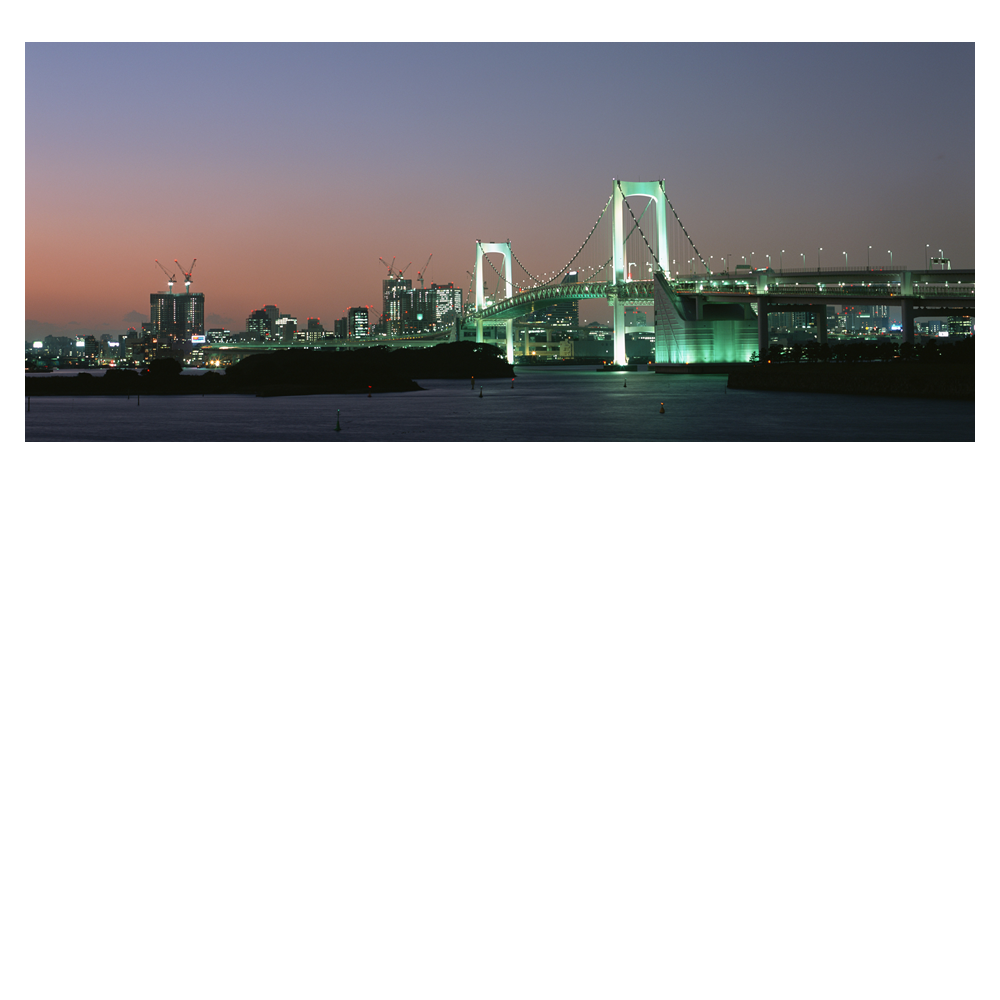
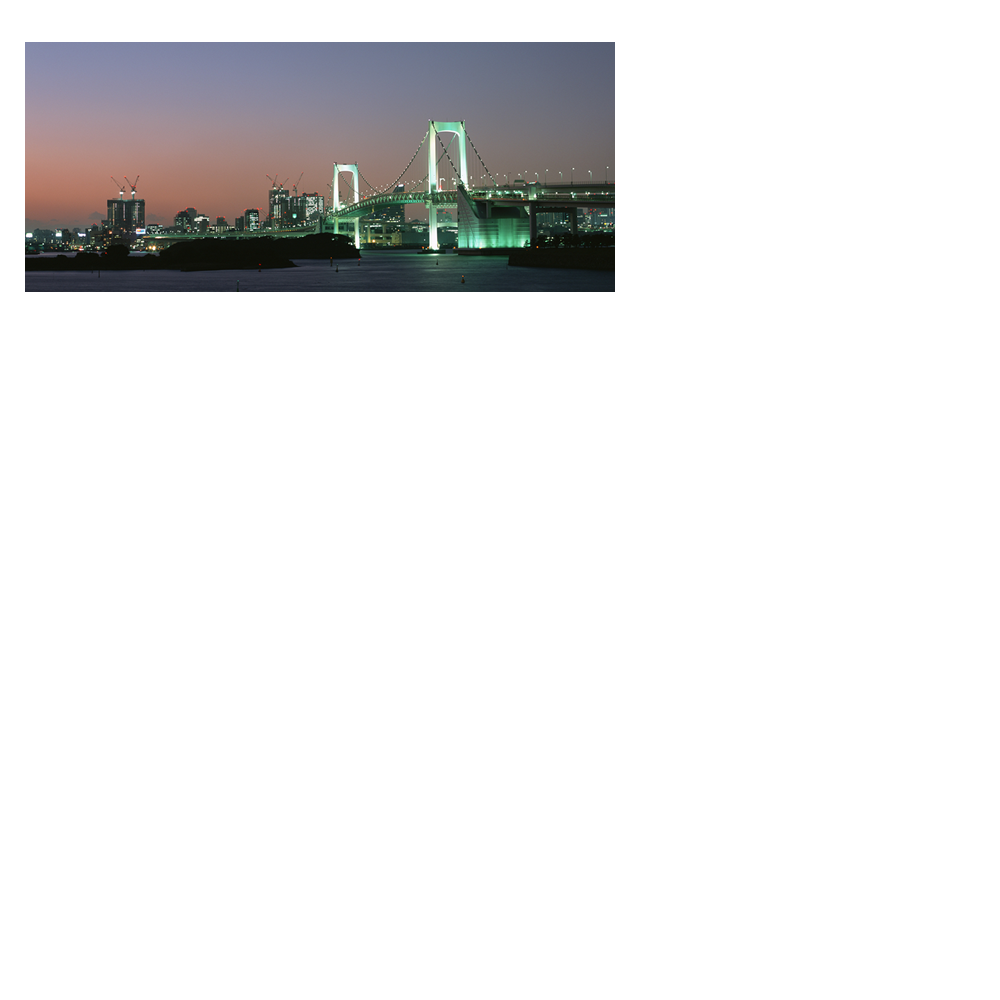
1. add debug library. 2. effect animation fixed. Signed-off-by: holy <holy.shared.design@gmail.com>

diff --git a/Source/Gradually.js b/Source/Gradually.js
@@ -24,11 +24,13 @@ var Gradually = new Class({
 	Implements: [Events, Options],
 
 	options: {
-		'panelHeight': 80,
-		'panelWidth': 95,
-		'periodical': 10000,
-		'duration': 100,
-		'zIndex': 9000
+		'panelHeight': 50,
+		'panelWidth': 59,
+		'periodical': 5000,
+		'duration': 30,
+		'zIndex': 9000,
+		'height': 250,
+		'width': 590
 	},
 
 	initialize: function (container, source, options) {
@@ -38,15 +40,15 @@ var Gradually = new Class({
 
 		
 		this.parseElements(source);
-				this.index = 0;
+		this.index = 0;
 
 		
-		this.container.setStyle("height", 400);
-		this.container.setStyle("width", 950);
+		this.container.setStyle("height", this.options.height);
+		this.container.setStyle("width", this.options.width);
 		
-		this.images = this.source.getElements("li img");
-		this.zIndex	= this.images.length;
-		this.source.setStyle("diplay","none");
+//		this.images = this.source.getElements("li img");
+//		this.zIndex	= this.images.length;
+//		this.source.setStyle("diplay","none");
 
 		this.build();
 		this.onTime.delay(this.options.periodical, this);
@@ -136,50 +138,16 @@ var Gradually = new Class({
 		this.progress = 0;
 		this.total = 0;
 	},
-
-	random: function() {
-		this.reset();
-		var panels = this.getCurrentPanels();
-		var total = panels.length;
-//		var duration = 0;
-
-
-
-
-		this.total = panels.length;
-		this.progress = 0;
-
-
-		var duration = this.options.duration;
-		while(panels.length > 0) {
-			var pickup = panels.getRandom();
-			var size = pickup.getSize();
-			var position = pickup.getStyles("left", "top");
-			var fx = pickup.get("morph", {"duration": duration, "transition": "expo:out", "onComplete": this.onProgress.bind(this)});
-/*			fx.start({
-				"opacity": [1, 0],
-				"height": [size.y, 0], "width": [size.x, 0],
-				"top": [position.top.toInt(), position.top.toInt() + (size.y/2)],
-				"left": [position.left.toInt(), position.left.toInt() + (size.x/2)]
-			});
-*/
-			fx.start({
-				"opacity": [1, 0]
-			});
-
-
-			duration = duration + this.options.duration;
-			panels.erase(pickup);
-		}
-	},
-
 	
 	sequential: function() {
 		this.reset();
 		var panels = this.getCurrentPanels();
 
+		this.total = panels.length;
+		this.progress = 0;
+
 		var duration = 0;
-		for (var i = 0; i < total; i++) {
+		for (var i = 0; i < this.total; i++) {
 			var pickup = panels[i];
 			var size = pickup.getSize();
 			var position = pickup.getStyles("left", "top");
@@ -197,8 +165,8 @@ var Gradually = new Class({
 	
 	
 	onTime: function() {
-//this.sequential();
-		this.random();
+this.sequential();
+	//	this.random();
 	},
 
 	onProgress: function() {
@@ -209,24 +177,37 @@ var Gradually = new Class({
 	onComplete: function() {
 		this.reset();
 		this.toFront();
+		this.resetPanelset();
+//dbug.log(this.index);
+
 		this.index = (this.index < this.elements.length - 1) ? this.index + 1 : 0;
 		this.onTime.delay(this.options.periodical, this);
 	},
 
-	toFront: function() {
-		var current = this.getCurrentPanelSet();
+	resetPanelset: function() {
+//		var current = this.getCurrentPanelSet();
 		var panels	= this.getCurrentPanels();
-		current.setStyle("zIndex", 1);
+		var props = this.psets[this.index].panels;
 		panels.each(function(e,k) {
-			e.setStyle("opacity", 1);
-		}.bind(this));
+			var p = this[k];
+			e.setStyles({
+				"opacity": 1,
+				"left": p.pl, "top": p.pt,
+				"heigth": p.h, "width": p.w,
+				"background-position": p.il.toString()+ "px " + p.it.toString()+ "px"
+			});
+		}.bind(props));
+	},
 
+	toFront: function() {
+dbug.log("panelset " + this.index.toString() + " zindex 1");
+		this.getCurrentPanelSet().setStyle("zIndex", 1);
 		this.elements.each(function(e,k) {
 			if (k != this.index) {
 				var zIndex= e.getStyle("zIndex").toInt();
 				e.setStyle("zIndex", ++zIndex);
+dbug.log("other panelset " + k.toString() + " zindex " + zIndex.toString());
 			}
 		}.bind(this));
 	}
-	
 });

diff --git a/Demos/js/libraries/clientcide.2.2.0.js b/Demos/js/libraries/clientcide.2.2.0.js
@@ -1,0 +1,11 @@
+/* Clientcide Copyright (c) 2006-2009, http://www.clientcide.com/wiki/cnet-libraries#license*/
+
+//Contents: Clientcide, dbug
+
+//This lib: http://www.clientcide.com/js/build.php?excludeLibs[]=mootools-core&excludeLibs[]=mootools-more&require[]=Clientcide&require[]=dbug&compression=jsmin
+
+
+var Clientcide={version:'%build%',assetLocation:"http://github.com/anutron/clientcide/raw/master/Assets",setAssetLocation:function(baseHref){Clientcide.assetLocation=baseHref;if(Clientcide.preloaded)Clientcide.preLoadCss();},preLoadCss:function(){if(window.StickyWin&&StickyWin.ui)StickyWin.ui();if(window.StickyWin&&StickyWin.pointy)StickyWin.pointy();Clientcide.preloaded=true;return true;},preloaded:false};(function(){if(!window.addEvent)return;var preload=function(){if(window.dbug)dbug.log('preloading clientcide css');if(!Clientcide.preloaded)Clientcide.preLoadCss();};window.addEvent('domready',preload);window.addEvent('load',preload);})();setCNETAssetBaseHref=Clientcide.setAssetLocation;
+var dbug={logged:[],timers:{},firebug:false,enabled:false,log:function(){dbug.logged.push(arguments);},nolog:function(msg){dbug.logged.push(arguments);},time:function(name){dbug.timers[name]=new Date().getTime();},timeEnd:function(name){if(dbug.timers[name]){var end=new Date().getTime()-dbug.timers[name];dbug.timers[name]=false;dbug.log('%s: %s',name,end);}else dbug.log('no such timer: %s',name);},enable:function(silent){var con=window.firebug?firebug.d.console.cmd:window.console;if((!!window.console&&!!window.console.warn)||window.firebug){try{dbug.enabled=true;dbug.log=function(){try{(con.debug||con.log).apply(con,arguments);}catch(e){console.log(Array.slice(arguments));}};dbug.time=function(){con.time.apply(con,arguments);};dbug.timeEnd=function(){con.timeEnd.apply(con,arguments);};if(!silent)dbug.log('enabling dbug');for(var i=0;i<dbug.logged.length;i++){dbug.log.apply(con,dbug.logged[i]);}
+dbug.logged=[];}catch(e){dbug.enable.delay(400);}}},disable:function(){if(dbug.firebug)dbug.enabled=false;dbug.log=dbug.nolog;dbug.time=function(){};dbug.timeEnd=function(){};},cookie:function(set){var value=document.cookie.match('(?:^|;)\\s*jsdebug=([^;]*)');var debugCookie=value?unescape(value[1]):false;if((!$defined(set)&&debugCookie!='true')||($defined(set)&&set)){dbug.enable();dbug.log('setting debugging cookie');var date=new Date();date.setTime(date.getTime()+(24*60*60*1000));document.cookie='jsdebug=true;expires='+date.toGMTString()+';path=/;';}else dbug.disableCookie();},disableCookie:function(){dbug.log('disabling debugging cookie');document.cookie='jsdebug=false;path=/;';}};(function(){var fb=!!window.console||!!window.firebug;var con=window.firebug?window.firebug.d.console.cmd:window.console;var debugMethods=['debug','info','warn','error','assert','dir','dirxml'];var otherMethods=['trace','group','groupEnd','profile','profileEnd','count'];function set(methodList,defaultFunction){for(var i=0;i<methodList.length;i++){dbug[methodList[i]]=(fb&&con[methodList[i]])?con[methodList[i]]:defaultFunction;}};set(debugMethods,dbug.log);set(otherMethods,function(){});})();if((!!window.console&&!!window.console.warn)||window.firebug){dbug.firebug=true;var value=document.cookie.match('(?:^|;)\\s*jsdebug=([^;]*)');var debugCookie=value?unescape(value[1]):false;if(window.location.href.indexOf("jsdebug=true")>0||debugCookie=='true')dbug.enable();if(debugCookie=='true')dbug.log('debugging cookie enabled');if(window.location.href.indexOf("jsdebugCookie=true")>0){dbug.cookie();if(!dbug.enabled)dbug.enable();}
+if(window.location.href.indexOf("jsdebugCookie=false")>0)dbug.disableCookie();}

diff --git a/Demos/index.html b/Demos/index.html
@@ -7,27 +7,28 @@
 		<meta name="description" content="" />
 		<meta name="author" content="Noritaka Horio" />
 		<meta name="copyright" content="2009 Noritaka Horio All rights reserved" />
-		<link rel="stylesheet" type="text/css" href="../css/style.css" media="screen,print" />
+		<link rel="stylesheet" type="text/css" href="css/reset.css" media="screen,print" />
 		<link rel="stylesheet" type="text/css" href="css/gradually.css" media="screen,print" />
 		<script type="text/javascript" src="js/libraries/mootools-1.2.4-core.js"></script>
+		<script type="text/javascript" src="js/libraries/clientcide.2.2.0.js"></script>
 		<script type="text/javascript" src="../Source/Gradually.js"></script>
 		<script type="text/javascript" src="js/demo.js"></script>
 	</head>
 	<body>
 		<div id="warpper">
 			<h1>Gradually</h1>
-			<h2>Gradually is Mootools plugin</h2>
+			<p>Gradually is Mootools plugin</p>
 			<div id="container" class="gradually">
 				<ul id="source">
-					<li><img src="images/demo1.jpg" width="950" height="400" /></li>
-					<li><img src="images/demo2.jpg" width="950" height="400" /></li>
-					<li><img src="images/demo1.jpg" width="950" height="400" /></li>
-					<li><img src="images/demo2.jpg" width="950" height="400" /></li>
-					<li><img src="images/demo1.jpg" width="950" height="400" /></li>
+					<li><img src="images/demo1.jpg" width="590" height="250" /></li>
+					<li><img src="images/demo2.jpg" width="590" height="250" /></li>
+					<li><img src="images/demo1.jpg" width="590" height="250" /></li>
+					<li><img src="images/demo2.jpg" width="590" height="250" /></li>
+					<li><img src="images/demo1.jpg" width="590" height="250" /></li>
 				</ul>
 			</div>
             <div id="footer">
-				<p id="copyright">2009 Noritaka Horio All rigths reserved.</p>
+				<p id="copyright">Copyright 2009 <a title="Noritaka Horio Site" href="http://sharedhat.com">Noritaka Horio</a> All rigths reserved.</p>
             </div>
         </div>
 	</body>

diff --git a/Demos/css/reset.css b/Demos/css/reset.css
@@ -1,0 +1,26 @@
+@charset "utf-8";
+
+body {
+	font-family: Sylfaen, "Time New Roman";
+	font-weight: normal;
+	font-size: 62.5%;
+}
+
+h1 {
+	font-size: 3.5em;
+	font-weight: normal;
+}
+
+p {
+	font-size: 1.4em;
+}
+
+#warpper {
+	width: 620px;
+	margin: 0px auto;
+}
+
+#copyright {
+	font-size: 1.2em;
+	text-align: center;	
+}

diff --git a/Demos/js/demo.js b/Demos/js/demo.js
@@ -1,4 +1,7 @@
 window.addEvent("domready", function() {
-//	var images = $("base").getElements("li img");
+
+dbug.enable();
+	
+	//	var images = $("base").getElements("li img");
 	new Gradually($("container"),  $("source"));
 });
